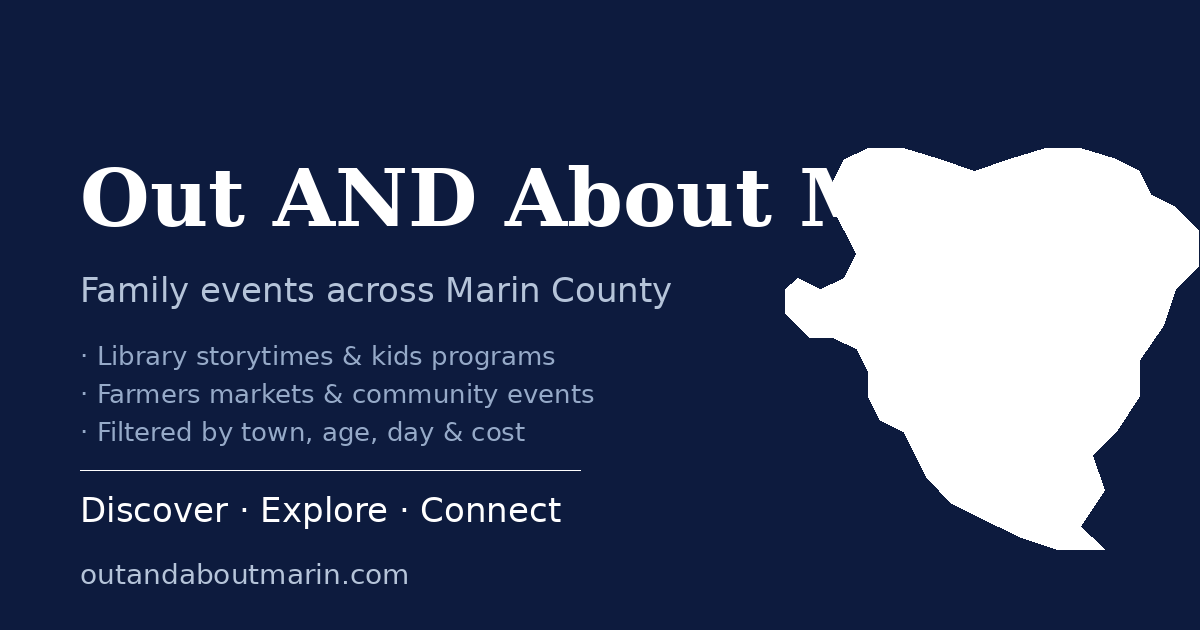
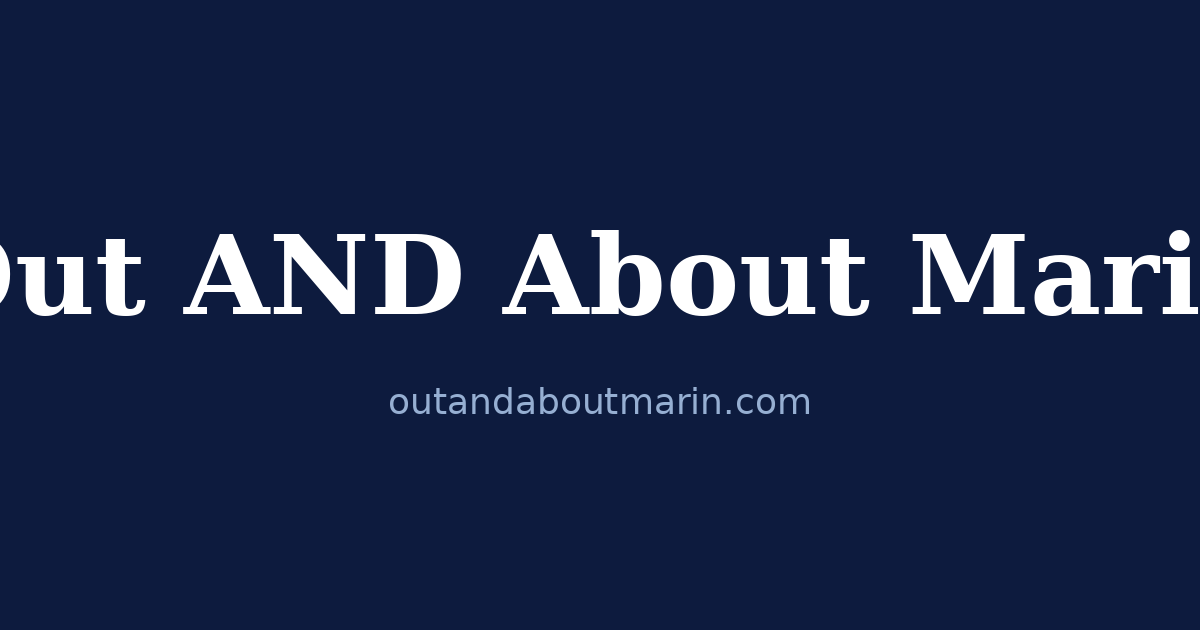
Major update — 106 events, weekly sweep, Supabase, UI fixes, social preview

diff --git a/index.html b/index.html
@@ -1842,7 +1842,7 @@ function isEventInWeek(e, weekStart, weekEnd) {
   const dayNames = ['Sunday','Monday','Tuesday','Wednesday','Thursday','Friday','Saturday'];
   if (e.cadence === 'One-off') {
     if (!e.event_date) return false;
-    const d = new Date(e.event_date);
+    const d = new Date(e.event_date + 'T12:00:00');
     return d >= weekStart && d <= weekEnd;
   }
   // Check each day in the week range
